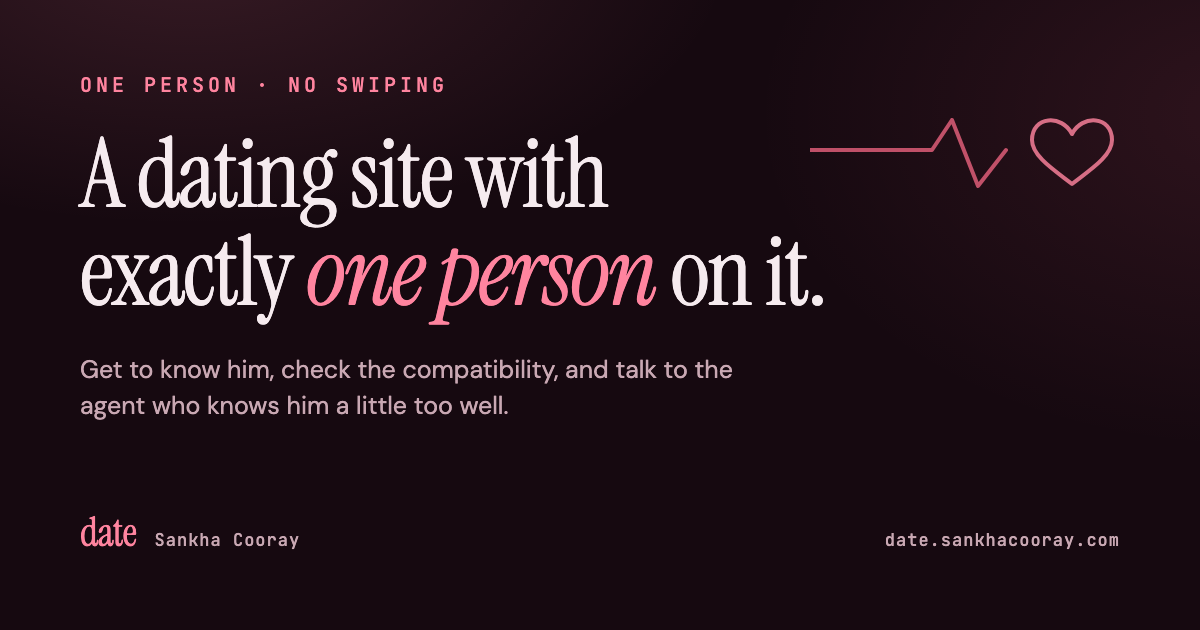
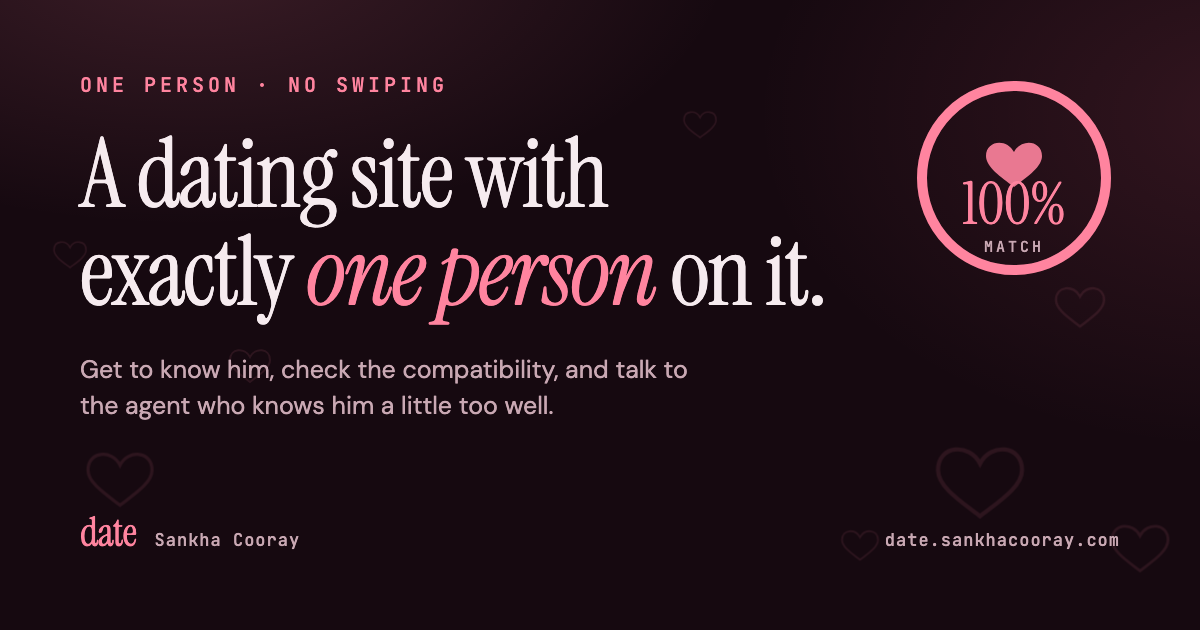
Enrich OG card — add 100% match ring + scattered-hearts field
🤖 Generated with [Claude Code](https://claude.com/claude-code)

Changed region(s): [[0.6783, 0.1206, 0.925, 0.4524], [0.0617, 0.6333, 0.4625, 0.6635], [0.5858, 0.573, 0.6167, 0.6032]]

diff --git a/assets/og-card.html b/assets/og-card.html
@@ -11,8 +11,8 @@
     background: #160910;
     color: #f6ebef;
     background-image:
-      radial-gradient(900px 460px at 16% -8%, rgba(255,132,159,0.14), transparent 60%),
-      radial-gradient(820px 560px at 104% 18%, rgba(255,107,138,0.10), transparent 60%);
+      radial-gradient(900px 460px at 16% -8%, rgba(255,132,159,0.16), transparent 60%),
+      radial-gradient(820px 560px at 104% 18%, rgba(255,107,138,0.12), transparent 60%);
     padding: 72px 80px;
     display: flex;
     flex-direction: column;
@@ -20,6 +20,7 @@
     position: relative;
     overflow: hidden;
   }
+  .field { position: absolute; inset: 0; z-index: 0; }
   .eyebrow {
     font-family: 'JetBrains Mono', monospace; font-size: 20px; font-weight: 500;
     color: #ff849f; text-transform: uppercase; letter-spacing: 4px;
@@ -30,29 +31,50 @@
   }
   h1 em { color: #ff849f; font-style: italic; }
   .lede {
-    font-size: 25px; color: #c9a8b3; max-width: 720px; margin-top: 30px; line-height: 1.45;
+    font-size: 25px; color: #c9a8b3; max-width: 640px; margin-top: 30px; line-height: 1.45;
   }
-  .foot { display: flex; align-items: baseline; gap: 18px; }
+  .foot { display: flex; align-items: baseline; gap: 18px; position: relative; z-index: 1; }
   .mark { font-family: 'Instrument Serif', serif; font-size: 40px; color: #ff849f; letter-spacing: -0.5px; }
   .by { font-family: 'JetBrains Mono', monospace; font-size: 17px; color: #c9a8b3; letter-spacing: 1px; }
   .url { margin-left: auto; font-family: 'JetBrains Mono', monospace; font-size: 17px; color: #c9a8b3; letter-spacing: 1px; }
-  .pulse { position: absolute; right: 70px; top: 90px; opacity: 0.9; }
+  .content { position: relative; z-index: 1; }
+
+  /* compatibility ring, top-right */
+  .ring { position: absolute; right: 82px; top: 74px; width: 208px; height: 208px; z-index: 1; }
+  .ring .pct { font-family: 'Instrument Serif', serif; font-size: 58px; fill: #ff849f; }
+  .ring .lbl { font-family: 'JetBrains Mono', monospace; font-size: 15px; letter-spacing: 3px; fill: #c9a8b3; text-transform: uppercase; }
 </style>
 </head>
 <body>
-  <svg class="pulse" width="320" height="120" viewBox="0 0 320 120">
-    <!-- heartbeat easing into a heart -->
-    <polyline points="0,60 96,60 122,60 142,30 168,96 196,60"
-      fill="none" stroke="#ff6b8a" stroke-width="4" stroke-linecap="round" stroke-linejoin="round" opacity="0.8"/>
-    <path d="M262 44
-             c -10 -20 -40 -18 -40 6
-             c 0 16 22 30 40 44
-             c 18 -14 40 -28 40 -44
-             c 0 -24 -30 -26 -40 -6 z"
-      fill="none" stroke="#ff849f" stroke-width="4" stroke-linecap="round" stroke-linejoin="round" opacity="0.9"/>
+  <!-- faint scattered-hearts field -->
+  <svg class="field" viewBox="0 0 1200 630" fill="none">
+    <defs>
+      <path id="h" d="M0 -3 c -5 -10 -20 -9 -20 3 c 0 8 11 15 20 22 c 9 -7 20 -14 20 -22 c 0 -12 -15 -13 -20 -3 z"/>
+    </defs>
+    <g stroke="#ff849f" stroke-width="2" opacity="0.10">
+      <use href="#h" transform="translate(120 470) scale(1.6)"/>
+      <use href="#h" transform="translate(250 360) scale(1.0)"/>
+      <use href="#h" transform="translate(70 250) scale(0.8)"/>
+      <use href="#h" transform="translate(980 470) scale(2.1)"/>
+      <use href="#h" transform="translate(1080 300) scale(1.2)"/>
+      <use href="#h" transform="translate(860 540) scale(0.9)"/>
+      <use href="#h" transform="translate(1140 540) scale(1.4)"/>
+      <use href="#h" transform="translate(700 120) scale(0.8)"/>
+    </g>
   </svg>
 
-  <div>
+  <!-- 100% match ring -->
+  <svg class="ring" viewBox="0 0 208 208">
+    <circle cx="104" cy="104" r="92" fill="none" stroke="rgba(255,132,159,0.18)" stroke-width="10"/>
+    <circle cx="104" cy="104" r="92" fill="none" stroke="#ff849f" stroke-width="10"
+      stroke-linecap="round" stroke-dasharray="578" stroke-dashoffset="0" transform="rotate(-90 104 104)"/>
+    <path d="M104 78 c -7 -14 -28 -12 -28 4 c 0 11 15 21 28 31 c 13 -10 28 -20 28 -31 c 0 -16 -21 -18 -28 -4 z"
+      fill="#ff849f" opacity="0.9"/>
+    <text class="pct" x="104" y="150" text-anchor="middle">100%</text>
+    <text class="lbl" x="104" y="178" text-anchor="middle">match</text>
+  </svg>
+
+  <div class="content">
     <div class="eyebrow">one person · no swiping</div>
     <h1>A dating site with<br>exactly <em>one person</em> on it.</h1>
     <div class="lede">Get to know him, check the compatibility, and talk to the agent who knows him a little too well.</div>
